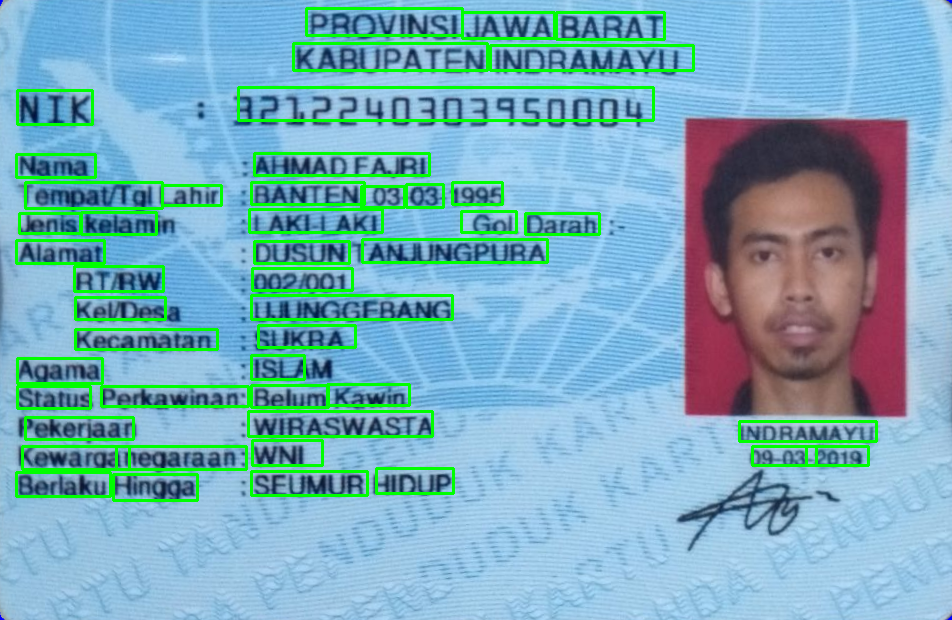
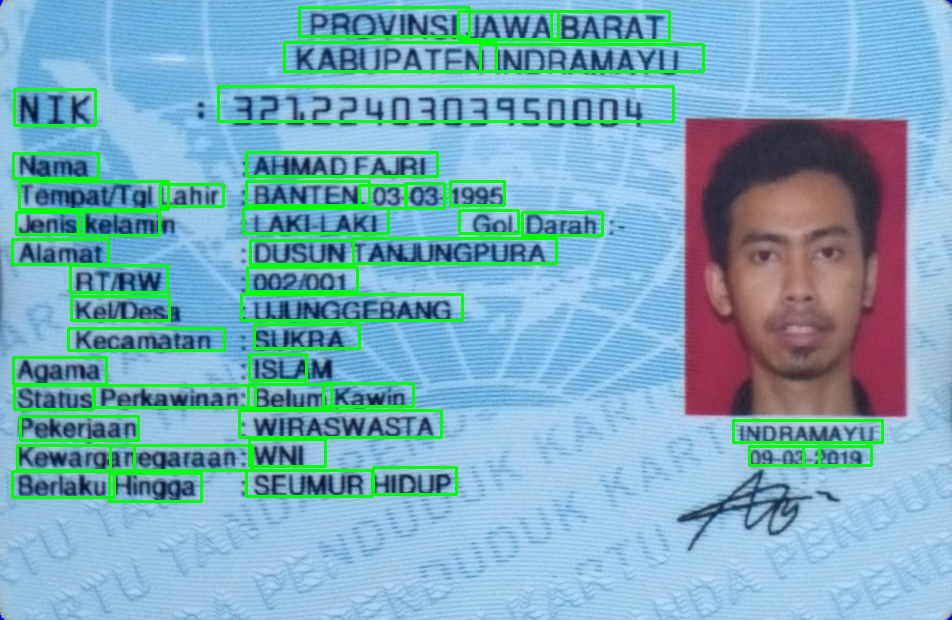
applied padding to prepare parsing using tesseract

diff --git a/main.py b/main.py
@@ -4,6 +4,7 @@ import os
 import imutils
 from imutils.object_detection import non_max_suppression
 import argparse
+import pytesseract
 import time
 
 def main(args):
@@ -17,9 +18,9 @@ def main(args):
           'training_images/ktp-8.png']
     for image in images:
         processKTP(image, args['width'], args['height'], 
-                args['east'], args['min_confidence'])
+                args['east'], args['min_confidence'], args['padding'])
 
-def processKTP(image_path, width, height, east_path, min_confidence):
+def processKTP(image_path, width, height, east_path, min_confidence, padding):
     # load the image, compute the ratio of old vs new height, clone, and resize
     image = cv2.imread(image_path)
 
@@ -66,7 +67,7 @@ def processKTP(image_path, width, height, east_path, min_confidence):
         # transform to flattened image (bird view)
         flat = fourPointTransform(image, points)
 
-        res = detectText(flat, width, height, east_path, min_confidence)
+        res = detectText(flat, width, height, east_path, min_confidence, padding)
 
         cv2.imwrite('results/' + image_path.replace('training_images/', ''), res)
     else:
@@ -137,14 +138,14 @@ def fourPointTransform(image, pts):
     # return the warped image
     return warped
 
-def detectText(image, width, height, east_path, min_confidence):
+def detectText(image, width, height, east_path, min_confidence, padding):
     orig = image.copy()
-    (H, W) = image.shape[:2]
+    (origH, origW) = image.shape[:2]
     (newH, newW) = (args['height'], args['width'])
     
     # calculate ratio to new height and width
-    rW = W / float(newW)
-    rH = H / float(newH)
+    rW = origW / float(newW)
+    rH = origH / float(newH)
 
     # resize the image using the ratio
     image = cv2.resize(image, (newW, newH))
@@ -233,6 +234,18 @@ def detectText(image, width, height, east_path, min_confidence):
         endX = int(endX * rW)
         endY = int(endY * rH)
 
+        # in order to obtain a better OCR of the text we can potentially 
+        # apply a bitof padding surrounding the bounding box -- here we are
+        # computing the deltas in both the x and y directions
+        dX = int((endX - startX) * padding)
+        dY = int((endY - startY) * padding)
+
+        # apply padding to each side of the bounding box, respectively
+        startX = max(0, startX - dX)
+        startY = max(0, startY - dY)
+        endX = min(origW, endX + dX)
+        endY = min(origH, endY + dY)
+
         # draw the boudning box on the image
         cv2.rectangle(orig, (startX, startY), (endX, endY), (0, 255, 0), 2)
 
@@ -245,6 +258,7 @@ if __name__ == '__main__':
     # EAST text requires that input image dimensions be multiples of 32
     ap.add_argument('-W', '--width', type=int, default=640)
     ap.add_argument('-H', '--height', type=int, default=640)
+    ap.add_argument('-P', '--padding', type=float, default=0.05)
     args = vars(ap.parse_args())
 
     main(args)
